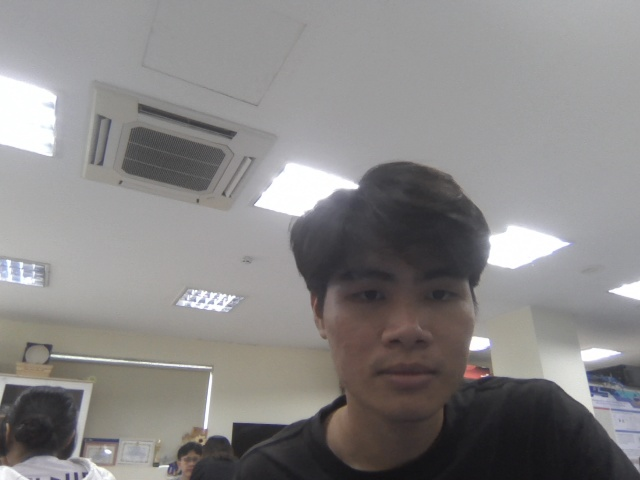
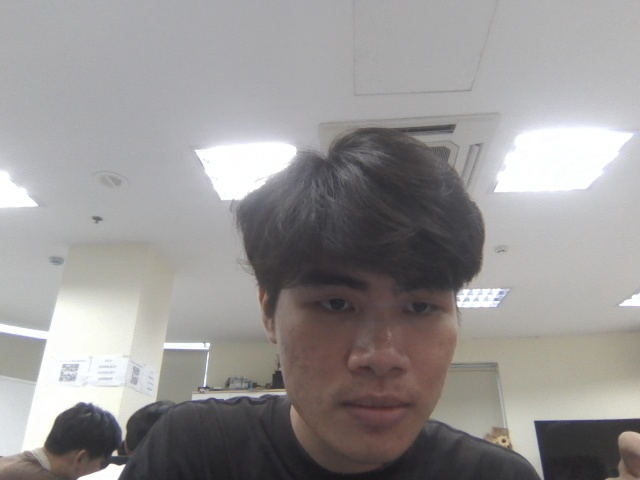
..

diff --git a/HandleService/main.go b/HandleService/main.go
@@ -51,6 +51,7 @@ func HandleMessage(client mqtt.Client, message mqtt.Message) {
 
 	if data == "OPEN" {
 		//client.Publish(topicPub, 0, false, []byte("OPEN"))
+		log.Println("Recieved successfully")
 		client.Publish(topicPubR, qos, false, []byte("OPEN"))
 	}
 }
